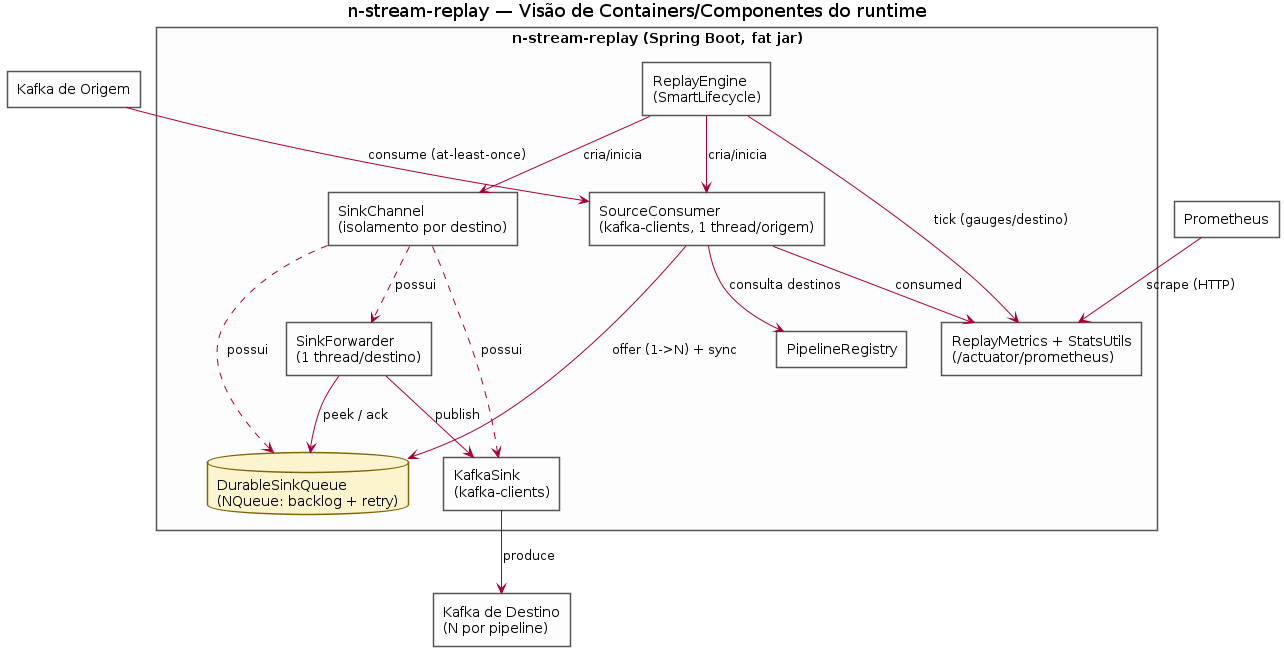
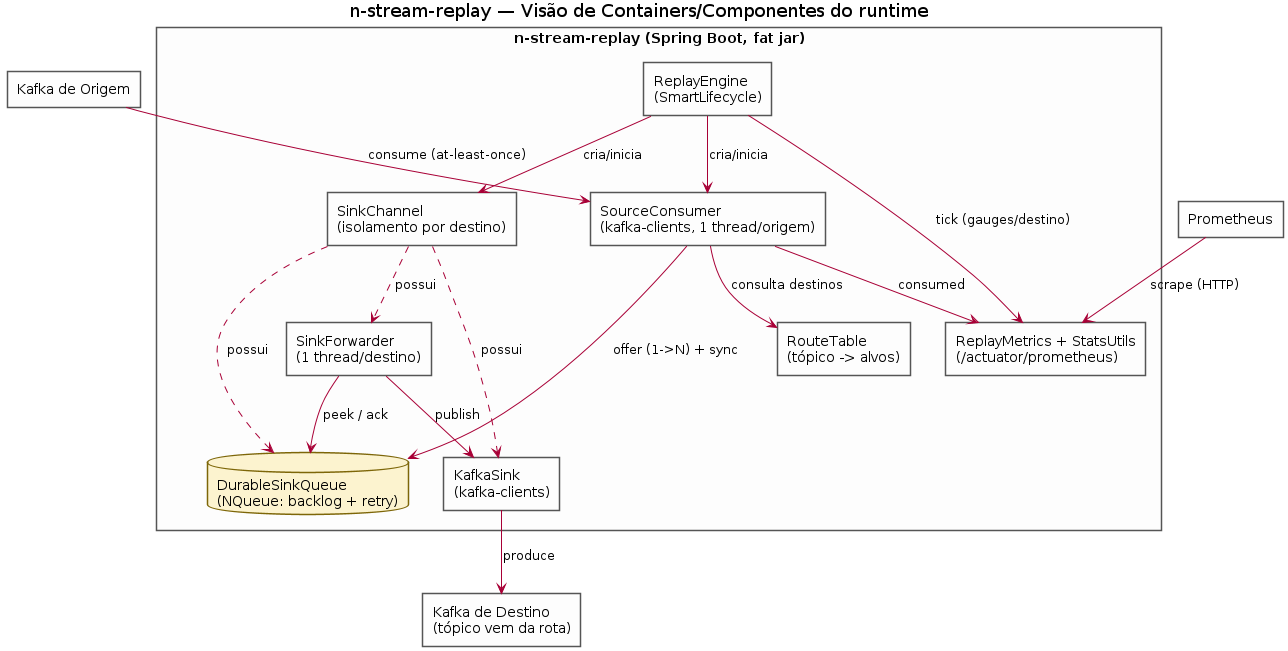
v2 Task 8: docs, exemplo e bump 2.0.0 (modelo de rotas)
pom 2.0.0; config/n-stream-replay.yaml e exemplo AcmePay no modelo de rotas
(sources/sinks sem tópico fixo + routes com toTopic opcional). README, architecture
e diagramas (RouteTable, destinationTopic) atualizados. 44 unit + 4 IT verdes.

diff --git a/README.md b/README.md
@@ -1,13 +1,20 @@
 # n-stream-replay
 
-Relay **Kafka store-and-forward**: declaram-se **origens** (sources) e **destinos** (sinks) Kafka, e **pipelines** que amarram **1 origem → N destinos**. Sem transformação de mensagem e sem rate-limit (MVP).
+Relay **Kafka store-and-forward** com **roteamento por tópico**: declaram-se **origens** (sources) e **destinos** (sinks) como conexões puras, e **rotas** que mapeiam um **tópico de origem → N alvos `{sink, toTopic?}`** (de-para, fan-out, merge, espelho). Sem transformação de mensagem e sem rate-limit.
 
 Cada **destino** possui uma **fila durável (NQueue, em disco)** própria. Se o destino fica offline, as mensagens dele ficam na fila e são **re-entregues quando ele volta** — sem travar a origem nem os demais destinos.
 
 ```
-origem  ──►  pipeline (resolve destinos)  ──►  fila-NQueue (por destino)  ──►  destino
-                                          └──►  fila-NQueue (por destino)  ──►  destino
+                       ┌─ rota: orders.in → {dc2-mirror, toTopic=orders.mirror}
+orders.in (orders-src) ┤
+                       └─ rota: returns.in → {analytics}            (toTopic ausente = preserva)
+   origem (consome a união dos fromTopic) ──► fila-NQueue (por destino) ──► destino (no tópico da rota)
 ```
+
+- **de-para:** tópico A → sink X, tópico B → sink Y (rotas distintas).
+- **fan-out:** uma rota com vários `to` (1 tópico → N destinos).
+- **merge:** duas rotas com o mesmo `{sink, toTopic}` (N tópicos → 1 destino).
+- **espelho:** `toTopic` omitido → o destino preserva o nome do tópico de origem.
 
 ## Stack
 - Java 25, Spring Boot 3.5.6 (web servlet, apenas para expor métricas)
@@ -33,7 +40,7 @@ mvn clean package          # gera o fat jar executável em target/n-stream-repla
 java -jar target/n-stream-replay-*.jar --spring.config.additional-location=file:./config/
 ```
 
-- Configuração de app: [`config/n-stream-replay.yaml`](config/n-stream-replay.yaml) (sources/sinks/pipelines).
+- Configuração de app: [`config/n-stream-replay.yaml`](config/n-stream-replay.yaml) (sources/sinks/routes).
 - Métricas: `GET http://localhost:8080/actuator/prometheus` (séries `nstreamreplay_*`).
 - Health: `GET http://localhost:8080/actuator/health`.
 

diff --git a/docs/architecture.md b/docs/architecture.md
@@ -2,7 +2,7 @@
 
 ## 1. Visão geral
 
-`n-stream-replay` é um **relay Kafka store-and-forward**. Declaram-se **origens** (sources), **destinos** (sinks) e **pipelines** que amarram **1 origem → N destinos** (fan-out). Não há transformação de mensagem nem rate-limit (MVP): os bytes de `key`/`value` e os headers são repassados intactos.
+`n-stream-replay` é um **relay Kafka store-and-forward** com **roteamento por tópico**. Declaram-se **origens** (sources) e **destinos** (sinks) como conexões puras, e **rotas** que mapeiam um **tópico de origem → N alvos `{sink, toTopic?}`** (de-para, fan-out, merge, espelho). Não há transformação de mensagem nem rate-limit: os bytes de `key`/`value` e os headers são repassados intactos.
 
 Cada destino possui uma **fila durável em disco** (`NQueue` do `nishi-utils-core`). Se um destino fica offline, suas mensagens ficam na fila e são **re-entregues quando ele volta**, sem travar a origem nem os demais destinos.
 
@@ -24,11 +24,11 @@ A aplicação é um **Spring Boot web servlet** apenas para expor métricas em `
 | Componente | Papel |
 |---|---|
 | `ReplayEngine` (`SmartLifecycle`) | Constrói e possui as instâncias dinâmicas; start/stop ordenado (forwarders **antes** das origens); tick de métricas. |
-| `SourceConsumer` (1 thread/origem) | `KafkaConsumer` cru, `enable.auto.commit=false`; poll loop; fan-out 1→N; group-commit (sync) **antes** do `commitSync`. |
-| `PipelineRegistry` | Resolve, no boot, origem → destinos (união deduplicada por id). |
+| `SourceConsumer` (1 thread/origem) | `KafkaConsumer` cru, `enable.auto.commit=false`; assina a união dos `fromTopic`; **roteia cada record por tópico** (resolve destino + `destinationTopic`); group-commit (sync) **antes** do `commitSync`. |
+| `RouteTable` | Resolve, no boot, **origem → (tópico → alvos)**; alvo = `{sink, toTopic?}` (toTopic ausente = preserva). |
 | `SinkChannel` (1 por destino) | Unidade de **isolamento**: agrega fila + producer + forwarder + thread. |
 | `DurableSinkQueue` | Dupla-fila `backlog`+`retry` sob lock; drop-oldest por contagem/tempo; at-least-once. |
-| `KafkaSink` | `KafkaProducer` cru; preserva key/value/headers/timestamp; guarda de oversize; poison vs transitório. |
+| `KafkaSink` | `KafkaProducer` cru; publica no `record.destinationTopic()` (resolvido pela rota); preserva key/value/headers/timestamp; guarda de oversize; poison vs transitório. |
 | `SinkForwarder` (1 thread/destino) | Drena → publica → confirma o prefixo entregue; backoff em broker-down; sweep de expirados. |
 | `ReplayMetrics` + `StatsUtils` | Exporta métricas em `/actuator/prometheus`. |
 
@@ -38,16 +38,16 @@ A aplicação é um **Spring Boot web servlet** apenas para expor métricas em `
 
 ## 5. Garantias de corretude
 
-- **At-least-once.** O offset da origem só é commitado **depois** de o lote ser enfileirado e sincronizado em **todas** as filas-destino. Após crash/restart pode haver **duplicatas** no destino (sem dedup no MVP) — sinks devem tolerar redelivery. A proveniência (`sourceTopic/partition/offset`) é gravada em cada registro para uma deduplicação futura.
+- **At-least-once.** O offset da origem só é commitado **depois** de o lote ser enfileirado e sincronizado em **todas** as filas-destino tocadas. Após crash/restart pode haver **duplicatas** no destino (sem dedup) — sinks devem tolerar redelivery. A proveniência (`sourceTopic/partition/offset`) e o `destinationTopic` resolvido são gravados em cada registro.
 - **Durabilidade (`sync-on-commit`, default).** As filas abrem com `fsync=false` (rápido por registro) e a origem força `sync()` (fsync) das filas tocadas no boundary do batch, antes do commit. Um fsync por destino por poll-batch. Alternativas por destino: `per-record-fsync` (mais seguro/lento) e `os-managed` (mais rápido; aceita perda na cauda).
 - **Bounded drop-oldest.** A fila é limitada por `maxDepth` (contagem) e/ou `retentionTime` (tempo, via `expireAfterWrite` no backlog). Ao estourar, os registros **mais antigos não entregues são descartados** (perda intencional, contabilizada em `dropped`/`expired`). Itens reservados para entrega (`retry`) nunca são descartados.
 - **Isolamento.** Cada destino tem fila/producer/forwarder próprios; um destino offline só faz crescer/dropar a sua fila, sem afetar a origem nem os demais destinos.
-- **Ordem.** 1 thread de poll por origem + 1 forwarder por destino ⇒ FIFO por destino e ordem por chave preservada. Invariante: nunca adicionar um 2º forwarder por fila sem sharding por `hash(key)`.
+- **Ordem.** 1 thread de poll por origem + 1 forwarder por destino ⇒ FIFO por destino e ordem por chave preservada. Alvos `{sink, destino}` idênticos no mesmo record são deduplicados. Invariante: nunca adicionar um 2º forwarder por fila sem sharding por `hash(key)`.
 - **Poison vs transitório.** Erro não-retryable (`ApiException` não-`RetriableException`, ex.: `RecordTooLargeException`) e oversize pré-send são descartados (`poisoned`), avançando o FIFO; erro transitório (broker fora) mantém o lote na fila + backoff.
 
 ## 6. Configuração
 
-Configuração de app (sources/sinks/pipelines) em YAML externo: [`config/n-stream-replay.yaml`](../config/n-stream-replay.yaml). Ligada a `@ConfigurationProperties(prefix="nstreamreplay")` (constructor-binding a records imutáveis, `ignoreUnknownFields=false` = fail-loud). Validação cruzada (ids únicos, referências de pipeline) no boot pelo `ConfigValidator`. Importada via `spring.config.import` do `application.yml` interno; override por `--spring.config.additional-location`.
+Configuração de app (sources/sinks/routes) em YAML externo: [`config/n-stream-replay.yaml`](../config/n-stream-replay.yaml). Ligada a `@ConfigurationProperties(prefix="nstreamreplay")` (constructor-binding a records imutáveis, `ignoreUnknownFields=false` = fail-loud). Validação cruzada (ids únicos, referências de rota → source/sink) no boot pelo `ConfigValidator`. Importada via `spring.config.import` do `application.yml` interno; override por `--spring.config.additional-location`.
 
 ## 7. Métricas (`/actuator/prometheus`)
 